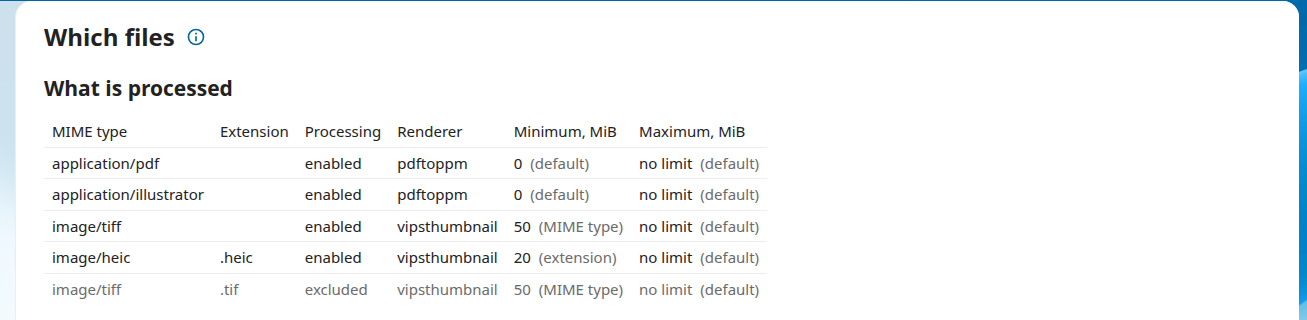
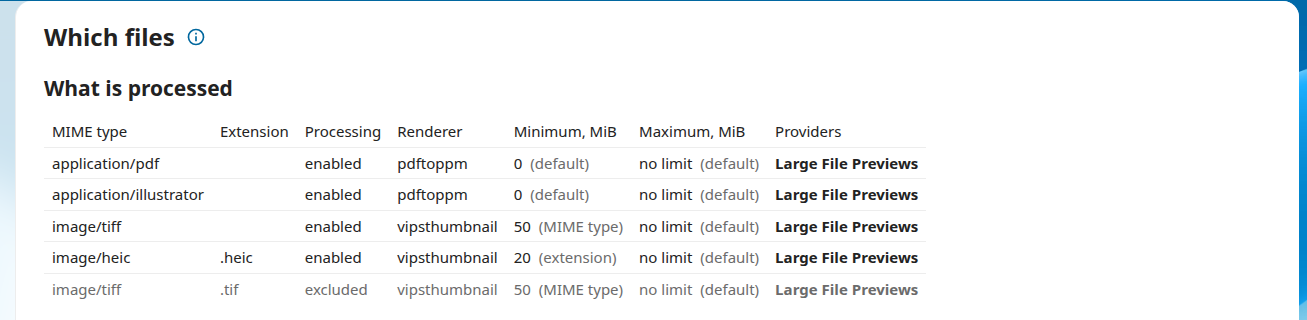
[TASK] Screenshots retaken: types off by default, and the providers
AP DefaultsOff v1.0 Block 5: the screenshot run switches on what its shots show, and the README says that every type ships off and what the providers are.

Key changes:
- tests/e2e/screenshots.cy.js: PDF and Illustrator switched on and cleared after, as every type ships off; the MIME types shot down to HEIC, the rows being taller with their providers
- docs/Screenshots: What-Is-Processed and MIME-Types with the providers, the rest retaken with them
- README.md, Configuration: the settings page saying in amber that nothing is processed, the providers of a type in Nextcloud's order, one before this app's in amber and marked by config:show; the MIME types shot's caption
- No CHANGELOG bullet: the README and the screenshots are not shipped, and the bullets for what is were amended with their blocks

diff --git a/tests/e2e/screenshots.cy.js b/tests/e2e/screenshots.cy.js
@@ -22,13 +22,20 @@ const FIND_TIMEOUT = 60000
  */
 const VIEWPORT = { width: 1600, height: 900 }
 
-/** The rules the shots show, set by occ and cleared after. */
+/**
+ * The rules the shots show, set by occ and cleared after: every type ships
+ * off, so PDF and Illustrator are switched on as an administrator would.
+ */
 const RULES = [
+	'lfp:config:set --mime application/pdf --enabled=yes',
+	'lfp:config:set --mime application/illustrator --enabled=yes',
 	'lfp:config:set --mime image/tiff --enabled=yes',
 	'lfp:config:set --ext heic --enabled=yes --min=20',
 	'lfp:config:set --ext tif --enabled=no',
 ]
 const CLEAR = [
+	'lfp:config:unset --mime application/pdf',
+	'lfp:config:unset --mime application/illustrator',
 	'lfp:config:unset --mime image/tiff',
 	'lfp:config:unset --ext heic',
 	'lfp:config:unset --ext tif',
@@ -150,11 +157,11 @@ describe( 'Screenshots', () => {
 		shotBetween( 'What-Is-Processed', '.lfp-types h3', '.lfp-active' )
 	} )
 
-	// Down to JPEG XL, whose decoder libvips counts as untrusted: the whole
-	// table is taller than the viewport.
+	// Down to HEIC: the whole table, each type with its providers, is
+	// taller than the viewport.
 	it( 'MIME-Types', () => {
 		openSettings()
-		shotBetween( 'MIME-Types', '.lfp-types h4:contains("MIME types")', 'tr[data-mime="image/jxl"]', 16, 1 )
+		shotBetween( 'MIME-Types', '.lfp-types h4:contains("MIME types")', 'tr[data-mime="image/heic"]', 16, 1 )
 	} )
 
 	it( 'Extensions', () => {

diff --git a/README.md b/README.md
@@ -57,8 +57,8 @@ HEIC through its extension, and `.tif` excluded:
 
 ![What is processed][shot-processed]
 
-The MIME types, each with its `occ` command;
-JPEG 2000 and JPEG XL blocked, their decoders untrusted:
+The MIME types, each with the preview providers Nextcloud tries for it,
+this app's first, and its `occ` command:
 
 ![The MIME types][shot-mime]
 
@@ -150,7 +150,8 @@ the extension, then the MIME type, then the app's default,
 The settings page calls a file the app takes *processed*.
 Out of the box every type is off,
 so installing the app changes nothing:
-an administrator switches on each MIME type or extension it is to take.
+an administrator switches on each MIME type or extension it is to take,
+and until one is, the settings page says so in amber.
 Switched on, PDF and Illustrator files are taken at any size,
 and an image from `preview_max_filesize_image` up,
 50 MiB unless set, where Nextcloud's own image providers stop.
@@ -187,11 +188,21 @@ occ lfp:config:set timeout_seconds 60
 ```
 
 `config:show` lists everything, stored and resolved,
-and what is set but not used;
+each type's preview providers, and what is set but not used;
 `config:get` says what one MIME type, extension or file resolves to,
 at a size where one is given, and why;
 `config:unset` returns a setting or a rule to its default.
 Each command is `large-file-previews:<name>`, with `lfp:<name>` as its alias.
+
+The providers of a type are the ones Nextcloud tries for it, in its order:
+the regex they are registered under, longest first.
+This app's is normally first for every type it handles;
+one that comes before it is shown in amber on the page,
+and marked `!` by `config:show`,
+since it is asked first and may take a file the app would have taken.
+Each name on the page carries the provider's class as its tooltip.
+What is listed is what is registered:
+whether a provider takes a particular file is known per file only.
 
 Each render runs under three limits, each switchable, all on by default.
 Sizes are in MiB, as the caps count them.
